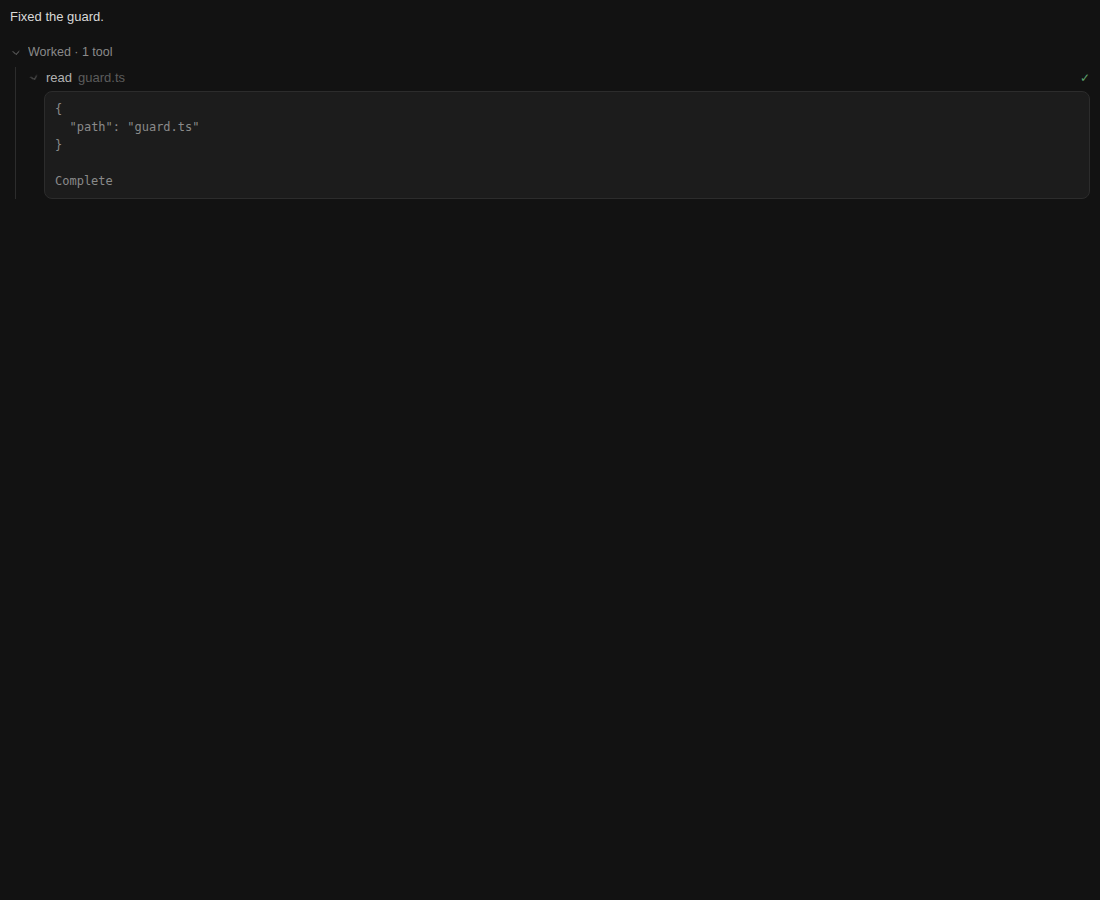
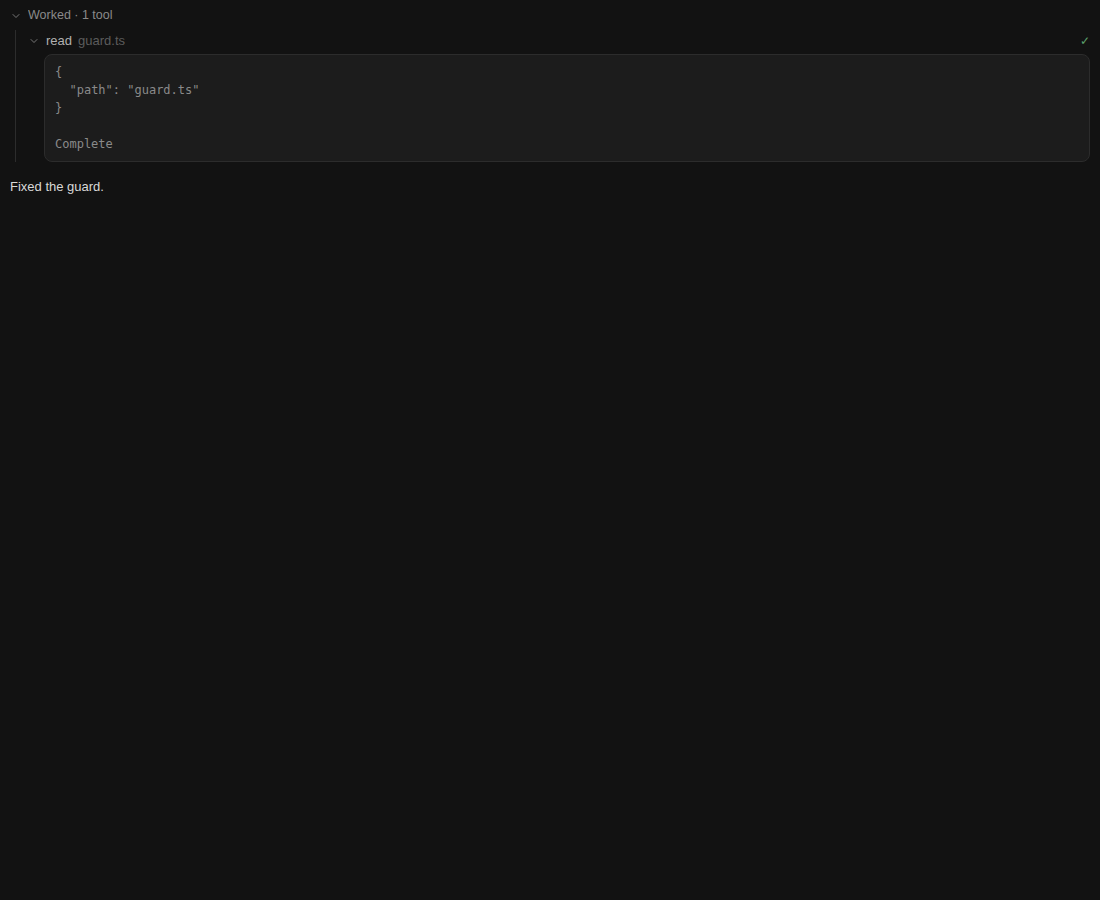
Preserve expanded tool details through history resynchronization

Changed region(s): [[0.0, 0.0, 0.1236, 0.2178], [0.1236, 0.0933, 0.1545, 0.1556]]

diff --git a/orb/tests/transcript.browser.spec.ts b/orb/tests/transcript.browser.spec.ts
@@ -25,5 +25,12 @@ test("cumulative live text across tools renders once and preserves open tool det
  await page.evaluate(()=> (window as any).transcriptHarness.apply({type:"assistant_message",data:{id:"final",content:"Fixed the guard."}}));
  await expect(page.locator(".st-text")).toHaveCount(1);await expect(page.locator(".st-caret")).toHaveCount(0);
  await expect(page.locator(".st-tool-detail")).toBeVisible();
+ await page.evaluate(()=> (window as any).transcriptHarness.reset([
+  {type:"tool_call",data:{tool_call_id:"a",name:"read",args:{path:"guard.ts"}}},
+  {type:"tool_result",data:{tool_call_id:"a",result:"Complete"}},
+  {type:"assistant_message",data:{id:"final",content:"Fixed the guard."}}
+ ]));
+ await expect(page.locator(".st-text")).toHaveCount(1);
+ await expect(page.locator(".st-work-body")).toBeVisible();await expect(page.locator(".st-tool-detail")).toBeVisible();
  await page.screenshot({path:"test-results/orb-stream-reconciled.png"});
 });

diff --git a/orb/src/transcriptModel.ts b/orb/src/transcriptModel.ts
@@ -121,7 +121,7 @@ export class TranscriptReducer {
           return;
         }
         this.tools.set(callId,this.items.length);
-        this.items.push({kind:"tool",key:this.key("tool"),callId,name:str(d.name)||"tool",args:d.args??null,...(ev.type==="tool_result"?{result:d.result}:{}),done:ev.type==="tool_result"});return;
+        this.items.push({kind:"tool",key:`tool:${callId}`,callId,name:str(d.name)||"tool",args:d.args??null,...(ev.type==="tool_result"?{result:d.result}:{}),done:ev.type==="tool_result"});return;
       }
       case "error": this.close(); this.items.push({kind:"error",key:this.key("error"),text:str(d.message)});return;
     }

diff --git a/orb/VERIFICATION.md b/orb/VERIFICATION.md
@@ -115,3 +115,9 @@ Consolidated sidebar, streaming and project chooser checkpoint:
   six Rust tests remain valid; this checkpoint changes no backend Rust.
 - Composer voice code is untouched. Native validation belongs to the local
   coordinator; no production deployment or live mission mutation occurred.
+
+Final reconnect verification: tool row keys use tool_call_id, so a coalesced
+history replacement preserves expanded work and tool details even when the
+stored snapshot moves relative to tools. The actual DOM regression passes.
+Final production frontend build, all 29 unit/component tests and all 11 browser
+tests passed. Screenshots were refreshed from this final build's components.

diff --git a/orb/benchmarks/README.md b/orb/benchmarks/README.md
@@ -16,9 +16,9 @@ Measured in this Linux Chromium checkout on 2026-09-20:
 
 | Metric | Before | After |
 | --- | ---: | ---: |
-| Initial render median / p95 | 42.4 / 62.5 ms | 41.4 / 52.6 ms |
-| Live update median / p95 | 20.2 / 27.1 ms | 4.4 / 6.2 ms |
-| Replay median / p95 | 0.3 / 0.8 ms | 0.4 / 1.0 ms |
+| Initial render median / p95 | 42.4 / 62.5 ms | 45.5 / 56.2 ms |
+| Live update median / p95 | 20.2 / 27.1 ms | 4.6 / 6.9 ms |
+| Replay median / p95 | 0.3 / 0.8 ms | 0.5 / 1.2 ms |
 | Added / removed nodes | 18,120 / 18,119 | 60 / 59 |
 | Existing open work group retained | No | Yes |
 
